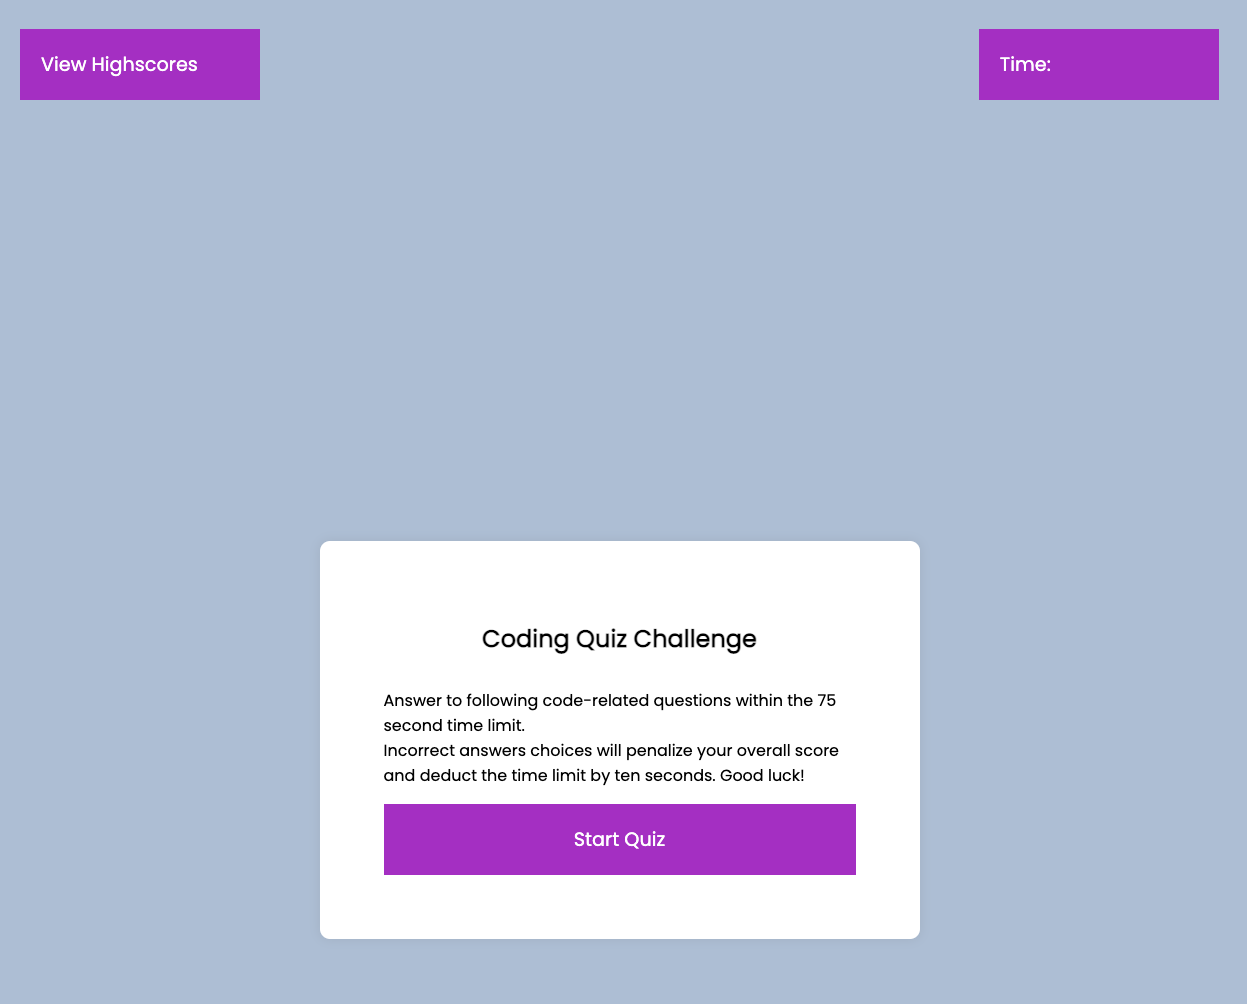
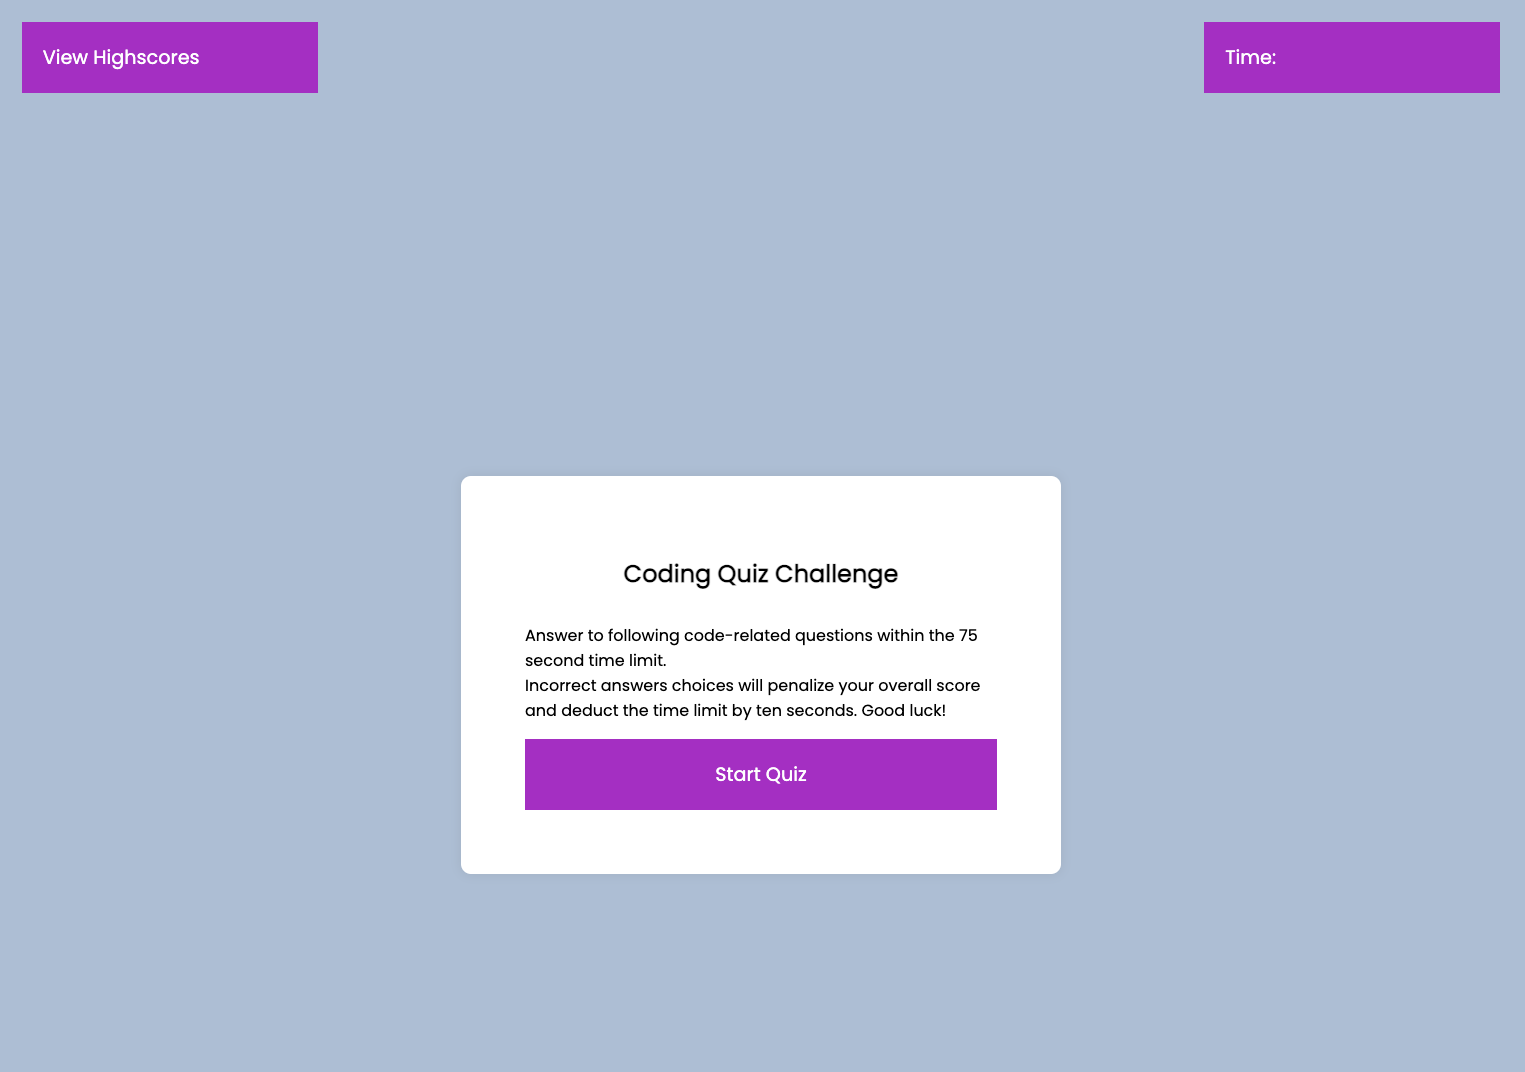
updates

Changed region(s): [[0.2438, 0.4323, 0.7618, 0.9572], [0.7618, 0.0, 1.0, 0.1235], [0.0, 0.0, 0.2133, 0.1235]]

diff --git a/index.html b/index.html
@@ -20,7 +20,7 @@
         <!--start-card container, start of game presents a "starting card" with a short prompt-->
         <div id="start-card" class="card">
             <h2 id="title">Coding Quiz Challenge</h2>
-            <p>Answer to following code-related questions within the 75 second time limit. <br>Incorrect answers choices will penalize your overall score and deduct the time limit by ten seconds. Good luck!</p>
+            <p>Test your knowledge by answering the following code-related questions within the time limit. <br>Heads up, incorrect answers choices will penalize your overall score and deduct the time limit by 10 seconds. Good luck!</p>
            <!--start button will start the game when clicked on-->
             <button id="start-button" class="button">Start Quiz</button>
         </div>

diff --git a/css/style.css b/css/style.css
@@ -93,8 +93,13 @@ button.button:hover, button.choice-button:hover {
     background-color:#d15dee ;
 }
 /*media queries*/
+/* for <980px */
 @media screen and (max-width: 980px) {
-  a, time {
+a {
+    flex: 20%;
+    font-size: 1rem;
+}
+time {
     flex: 20%;
 }
 .card {
@@ -102,8 +107,13 @@ button.button:hover, button.choice-button:hover {
     padding: 3rem;
 }
 }
+/*for <768px */
 @media screen and (max-width: 768px) {
-a, time {
+a {
+    flex: 20%;
+    font-size: 1rem;
+}
+time {
     flex: 20%;
 }
 .card {
@@ -111,8 +121,13 @@ a, time {
     padding: 2rem;
 }
 }
+/*for <575px */
 @media screen and (max-width: 575px) {
-a, time {
+a {
+    flex: 20%;
+    font-size: 1rem;
+}
+time {
     flex: 20%;
 }
 .card {

diff --git a/js/script.js b/js/script.js
@@ -153,7 +153,7 @@ function updateStoredLeaderboard(leaderboardItem) {
   leaderboardArray.push(leaderboardItem);
   localStorage.setItem("leaderboardArray", JSON.stringify(leaderboardArray));
 }
-//get "leaderboardArray" from local storage and parse it into a javascript object using JSON.parse
+//retrieve leaderboardArray from local storage and parse it into a javascript object using JSON.parse
 function getLeaderboard() {
   var storedLeaderboard = localStorage.getItem("leaderboardArray");
   if (storedLeaderboard !== null) {

diff --git a/README.md b/README.md
@@ -1,6 +1,6 @@
 # Javascript Coding Quiz Challenge
 
-For this challenge, we create an interactive and timed JavaScript quiz that stores a high score leaderboard in local storage. Developed in accordance with the following acceptance criteria:
+For this challenge, we have been assigned to create an interactive and timed JavaScript quiz that stores a high score leaderboard in local storage. The following is the challenge's  acceptance criteria:
 ```
 GIVEN I am taking a code quiz
 WHEN I click the start button
@@ -17,3 +17,4 @@ THEN I can save my initials and my score
 ![Screenshot of Webpage Mockup](./week4screenshot.png)
 
 ## Link to Deployed Application 
+Open the JavaScript Coding Quiz [URL](https://jennyferconstanza.github.io/week4challenge/) in your browser.
